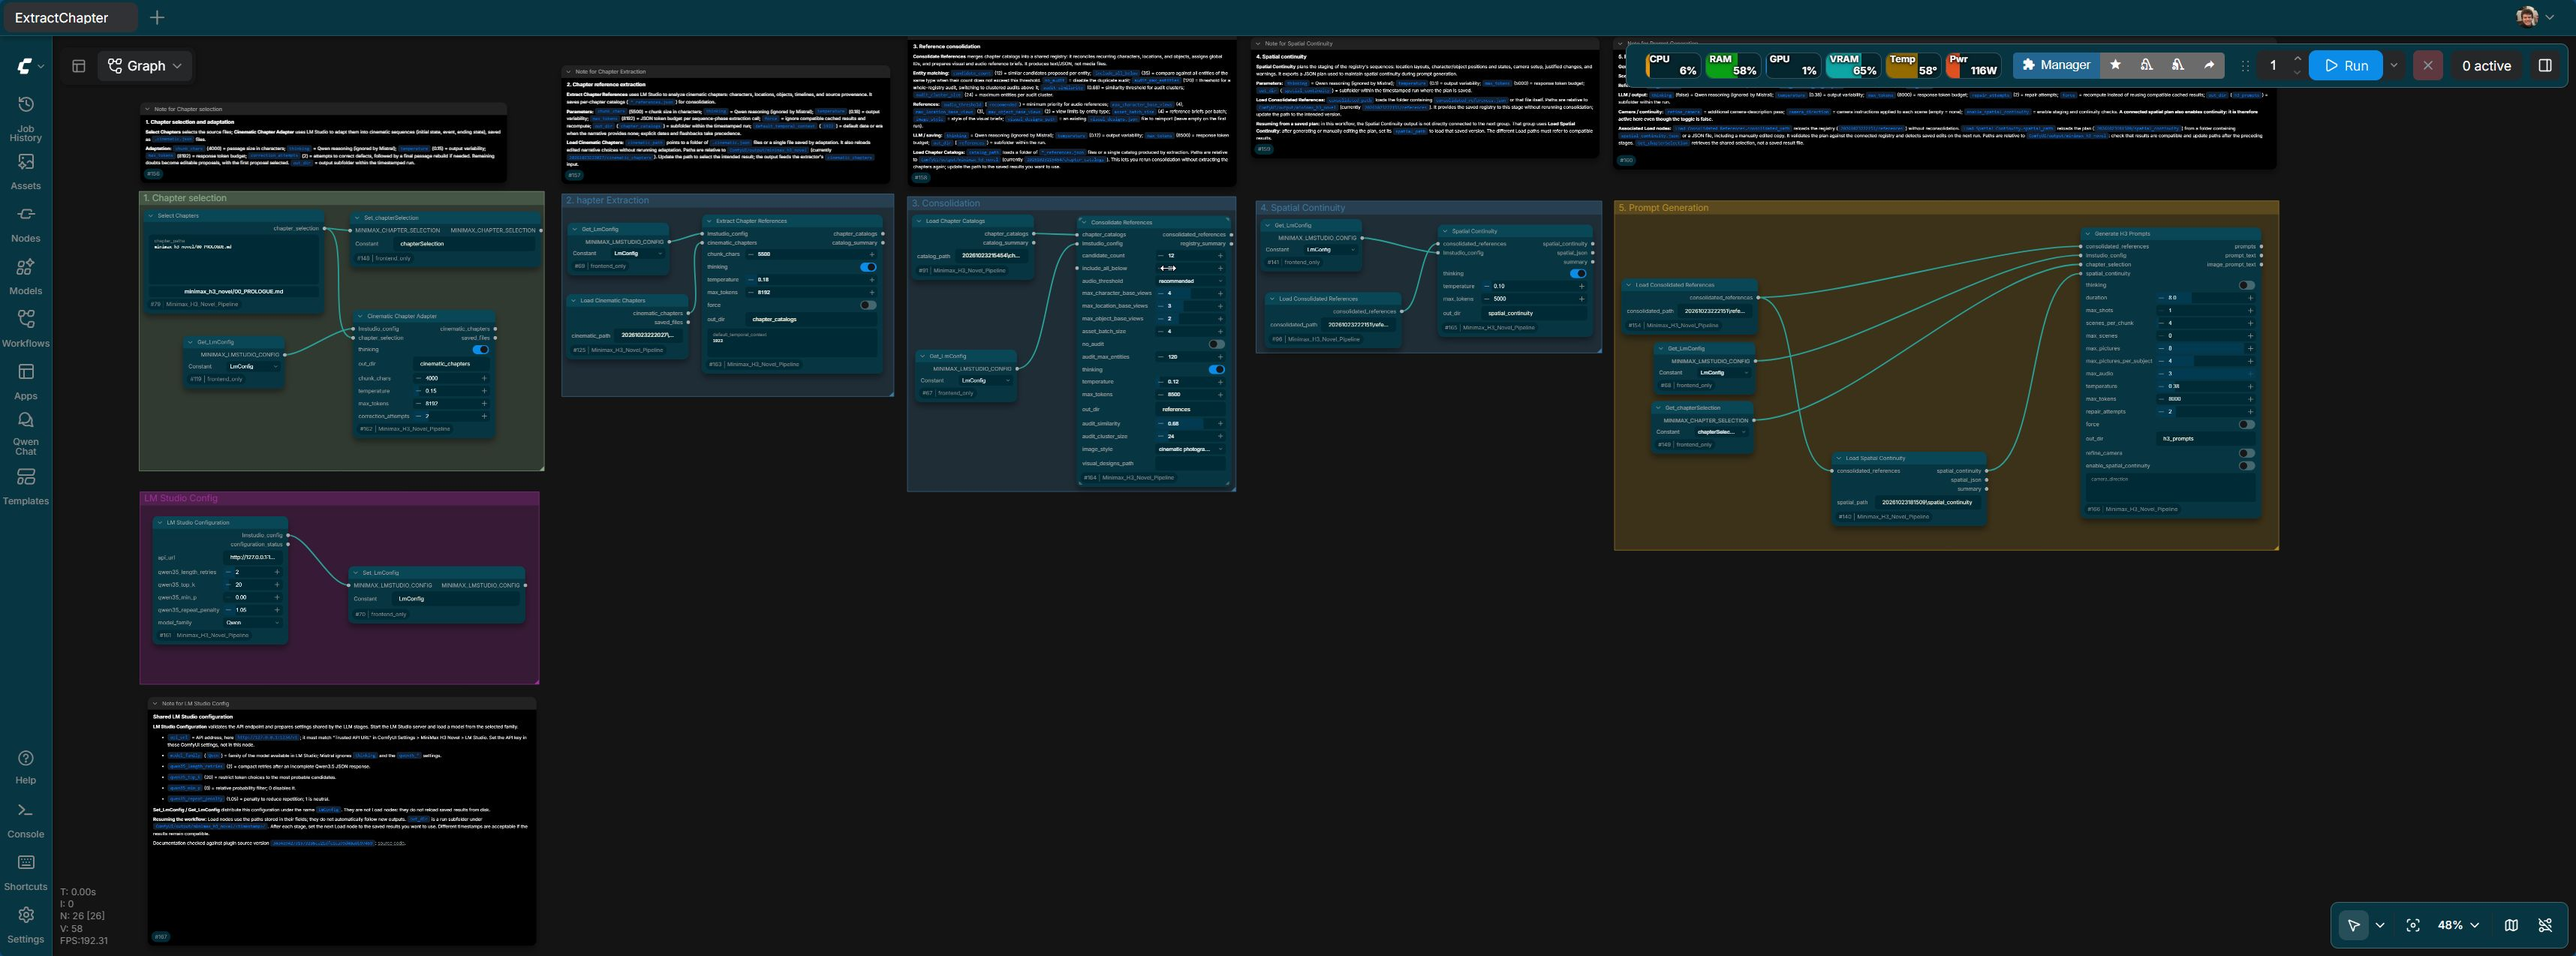
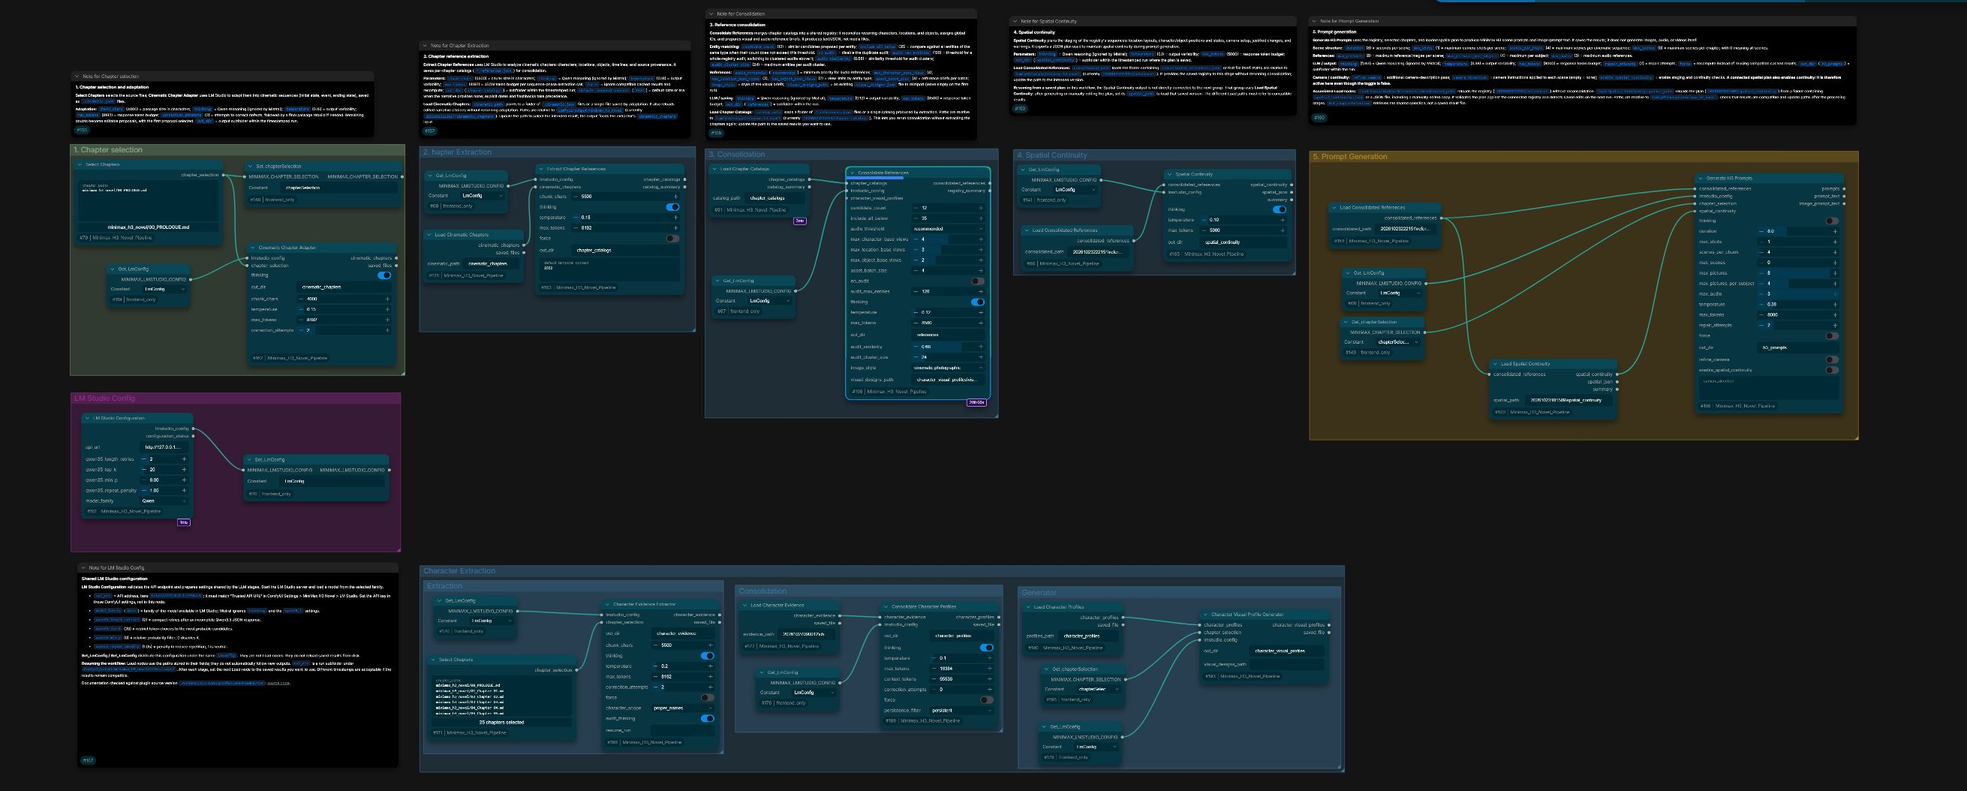
feat: Update frontend version in ExtractChapter.json and enhance validation in visual designs

diff --git a/src/core/visual_designs.py b/src/core/visual_designs.py
@@ -25,9 +25,9 @@ def object_schema(properties):
 
 
 DESIGN_SCHEMA = {"name": "visual_design_additions", "strict": True, "schema": object_schema({
-    "added_details": {"type": "array", "items": object_schema({
+    "added_details": {"type": "array", "maxItems": 8, "items": object_schema({
         "trait": {"type": "string", "enum": sorted({trait for traits in DESIGN_TRAITS.values() for trait in traits})},
-        "description": {"type": "string"},
+        "description": {"type": "string", "minLength": 1, "maxLength": 180},
     })},
 })}
 CONFLICT_SCHEMA = {"name": "visual_design_conflicts", "strict": True, "schema": object_schema({
@@ -44,7 +44,8 @@ descriptions in the source_facts' source language. Do not translate into English
 Keep JSON keys and allowed trait names unchanged; image_style is not a language cue.
 Fill unspecified identity/design details needed for consistent images;
 never repeat, replace or contradict a source-supported trait. Make one definite choice,
-not alternatives. Keep each value under 180 characters and at most 8 traits.
+not alternatives. Use each trait key at most once; combine its details in one value.
+Keep each value at most 180 characters and at most 8 traits.
 Do not invent plot, relationships, dialogue or voice traits. A reusable default outfit
 may be added when unspecified; chapter-specific states take precedence over defaults.
 Designs must suit the source's setting, entity type and supplied image style.
@@ -204,18 +205,28 @@ def prepare_designs(chat, client, model, entities, args, path=""):
 
         def validate_new(result):
             details = result.get("added_details")
-            if not isinstance(details, list) or len(details) > 8:
+            if not isinstance(details, list):
                 raise ValueError("added_details must be a list with at most 8 traits")
             seen = set()
+            distinct = []
             for item in details:
                 if not isinstance(item, dict) or any(not isinstance(item.get(k), str) or not item[k].strip()
                                                     for k in ("trait", "description")):
                     raise ValueError("Every design trait needs a name and description")
-                if item["trait"].casefold() in seen or len(item["description"]) > 180:
-                    raise ValueError("Design traits must be unique, with descriptions under 180 characters")
+                if item["trait"].casefold() in seen:
+                    continue
+                if len(item["description"]) > 180:
+                    raise ValueError(
+                        f"Design trait {item['trait']!r} description has {len(item['description'])} characters; "
+                        "rewrite it in at most 180 characters while preserving its visual details"
+                    )
                 if item["trait"] not in context["allowed_traits"]:
                     raise ValueError("Use only these trait keys: " + ", ".join(context["allowed_traits"]))
                 seen.add(item["trait"].casefold())
+                distinct.append(item)
+            details = distinct
+            if len(details) > 8:
+                raise ValueError("added_details must be a list with at most 8 traits")
             verdicts = check_additions({item["trait"]: item["description"] for item in details})
             # A model may repeat facts despite being asked only for additions.
             # Keep those facts in the authoritative source description, not the design.
@@ -229,7 +240,7 @@ def prepare_designs(chat, client, model, entities, args, path=""):
                 raise ValueError(f"{exc}. Correct added_details in visual_designs.json and retry.") from exc
         else:
             response = validated_request(chat, client, model, DESIGN_SYSTEM + "\n" + temporal_context.RULES, context,
-                                         DESIGN_SCHEMA, args, validate_new)
+                                         DESIGN_SCHEMA, args, validate_new, include_previous=True)
             added = {item["trait"]: item["description"] for item in response["added_details"]}
 
         if gid in imported and imported[gid].get('character_id'):

diff --git a/tests/test_image_reference_outputs.py b/tests/test_image_reference_outputs.py
@@ -712,6 +712,75 @@ def test_design_verdicts_distinguish_source_facts_from_additions(output_root):
     assert designs["entities"][0]["added_details"] == {"hair": "Copper hair."}
 
 
+@pytest.mark.parametrize("invalid_details, feedback", [
+    ([{"trait": "hair", "description": "é" * 181}], "'hair' description has 181 characters"),
+])
+def test_design_format_retry_receives_previous_details(output_root, monkeypatch, invalid_details, feedback):
+    monkeypatch.setattr(lmstudio_json, "QWEN35_LENGTH_RETRIES", 1)
+    requests = []
+    corrected = "Curly copper hair."
+
+    def chat(client, model, system, user, schema, *args):
+        if schema is visual_designs.DESIGN_SCHEMA:
+            requests.append(user)
+            description = schema["schema"]["properties"]["added_details"]["items"]["properties"]["description"]
+            assert description["maxLength"] == 180
+            assert schema["schema"]["properties"]["added_details"]["maxItems"] == 8
+            if len(requests) == 1:
+                return {"added_details": copy.deepcopy(invalid_details)}
+            assert feedback in user
+            assert json.dumps({"added_details": invalid_details}, ensure_ascii=False) in user
+            return {"added_details": [{"trait": "hair", "description": corrected}]}
+        return design_checks(user)
+
+    designs = visual_designs.prepare_designs(chat, None, "model", [entity()], options())
+    assert len(requests) == 2
+    assert designs["entities"][0]["added_details"] == {"hair": corrected}
+
+
+@pytest.mark.parametrize("duplicate_description", ["Copper hair.", "Curly hair."])
+@pytest.mark.parametrize("count", [2, 9])
+def test_duplicate_design_traits_keep_first_without_retry(output_root, monkeypatch, duplicate_description, count):
+    monkeypatch.setattr(lmstudio_json, "QWEN35_LENGTH_RETRIES", 0)
+    requests = []
+
+    def chat(client, model, system, user, schema, *args):
+        requests.append(schema["name"])
+        if schema is visual_designs.DESIGN_SCHEMA:
+            return {"added_details": [{"trait": "hair", "description": "Copper hair."}]
+                    + [{"trait": "hair", "description": duplicate_description} for _ in range(count - 1)]
+                    + [{"trait": "accessories", "description": "A brass ring."}]}
+        assert json.loads(user)["added_details"] == {"hair": "Copper hair.", "accessories": "A brass ring."}
+        return design_checks(user)
+
+    designs = visual_designs.prepare_designs(chat, None, "model", [entity()], options())
+    assert designs["entities"][0]["added_details"] == {"hair": "Copper hair.", "accessories": "A brass ring."}
+    assert requests == ["visual_design_additions", "visual_design_conflicts"]
+
+
+@pytest.mark.parametrize("length", [180, 181])
+def test_design_description_length_schema_and_validator_agree(output_root, monkeypatch, length):
+    from jsonschema import Draft202012Validator
+
+    monkeypatch.setattr(lmstudio_json, "QWEN35_LENGTH_RETRIES", 0)
+    response = {"added_details": [{"trait": "hair", "description": "é" * length}]}
+    validator = Draft202012Validator(visual_designs.DESIGN_SCHEMA["schema"])
+    assert validator.is_valid(response) == (length == 180)
+    requests = []
+
+    def chat(client, model, system, user, schema, *args):
+        requests.append(schema["name"])
+        return response if schema is visual_designs.DESIGN_SCHEMA else design_checks(user)
+
+    if length == 180:
+        designs = visual_designs.prepare_designs(chat, None, "model", [entity()], options())
+        assert designs["entities"][0]["added_details"]["hair"] == "é" * length
+    else:
+        with pytest.raises(reference_requests.InvalidResponse, match="hair.*181 characters"):
+            visual_designs.prepare_designs(chat, None, "model", [entity()], options())
+        assert requests == ["visual_design_additions"]
+
+
 def test_new_design_conflict_regenerates_within_retry_budget(output_root, monkeypatch):
     monkeypatch.setattr(lmstudio_json, "QWEN35_LENGTH_RETRIES", 1)
     generations = []
